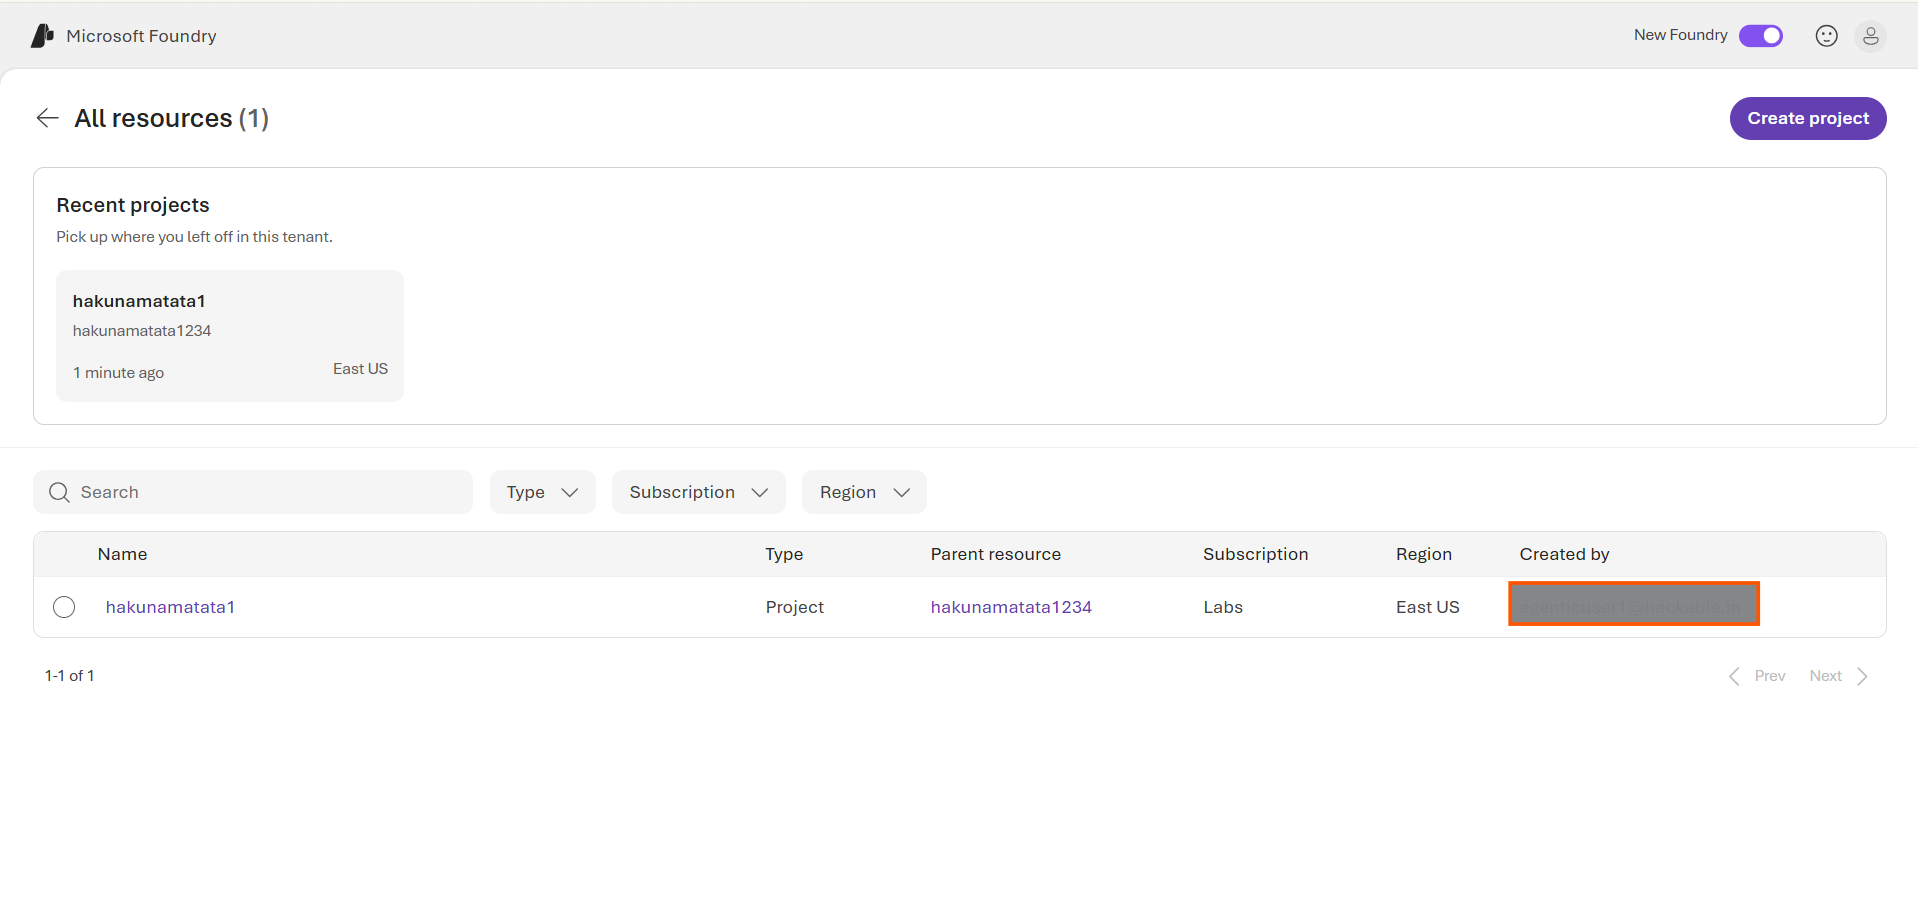
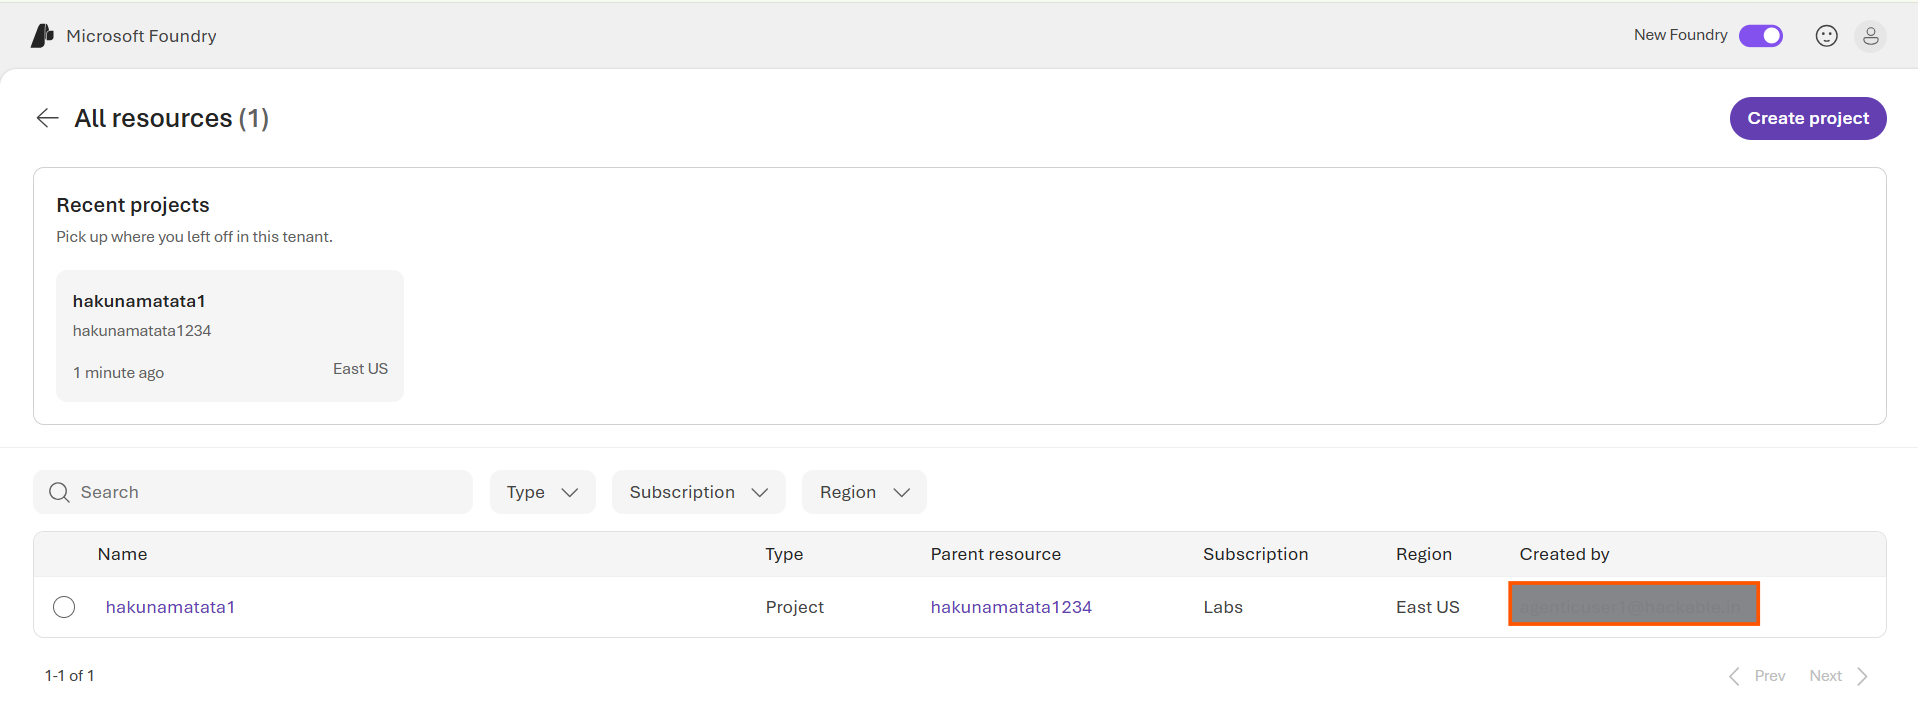
feat: Day01 Lab01

diff --git a/Instructions/Exercises/Day01/lab01-azure-ai-foundry.md b/Instructions/Exercises/Day01/lab01-azure-ai-foundry.md
@@ -150,7 +150,10 @@ In this part, you will explore the Azure AI Foundry portal. No coding is require
 
 1. Navigate to the Azure AI Foundry portal: <https://ai.azure.com/>.
 2. Sign in with your Azure account.
-3. Open the project that you created in Part 1.
+3. Open the project named **hakunamatata1** that was created for you.
+4. Ensure that you are using the **New Foundry UI**. If the **New Foundry** toggle in the upper-right corner is disabled, enable it before continuing.
+
+![Screenshot of the Foundry portal showing your project.](../../media/NewToggle.png)
 
 > **Note:** After you sign in to Microsoft Foundry (`ai.azure.com`), you may be redirected to the **All Resources** page. This page displays the AI Foundry resources and projects available in your Azure subscription.
 
